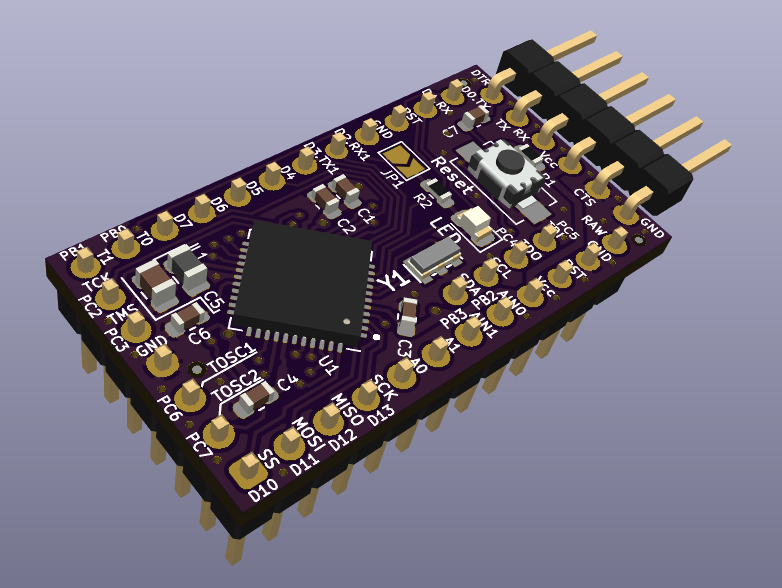
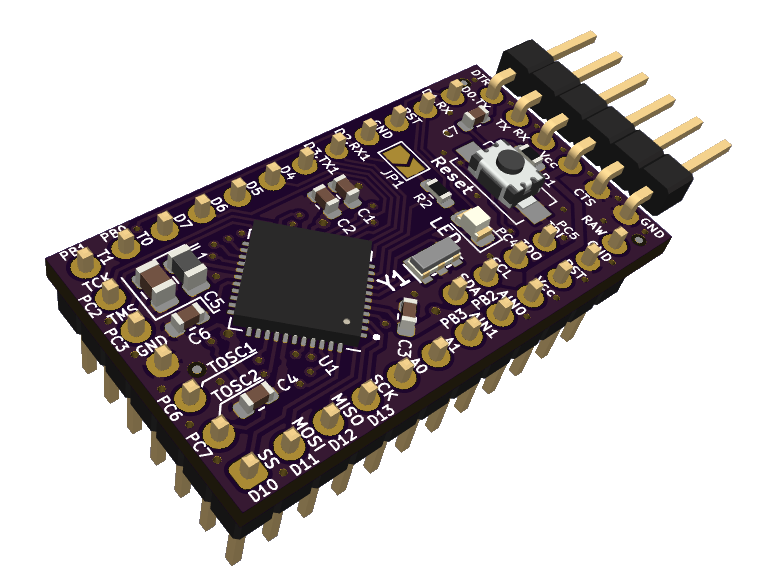
documentation updated

diff --git a/README.md b/README.md
@@ -1,0 +1,148 @@
+# **Arduino Pro Mini XL**
+
+- [**Arduino Pro Mini XL**](#arduino-pro-mini-xl)
+  - [**Overview**](#overview)
+    - [**Features**](#features)
+  - [**Schematic diagram**](#schematic-diagram)
+  - [**Module visualisation**](#module-visualisation)
+  - [**Assembly**](#assembly)
+  - [**Production files**](#production-files)
+  - [**Software Compatibility**](#software-compatibility)
+    - [**Installing MightyCore**](#installing-mightycore)
+  - [**Getting Started**](#getting-started)
+    - [**Burning the Bootloader**](#burning-the-bootloader)
+  - [**Troubleshooting**](#troubleshooting)
+  - [**Physical Specifications**](#physical-specifications)
+  - [**Reporting bugs**](#reporting-bugs)
+  - [**Acknowledgments**](#acknowledgments)
+  - [**License**](#license)
+  - [**Support**](#support)
+
+---
+
+## **Overview**
+The **Arduino Pro Mini XL** is a compact microcontroller board based on the **ATmega1284P**, designed to extend the capabilities of the standard Arduino Pro Mini while retaining its familiar form factor. With increased memory, additional I/O pins, and enhanced features, this board is well-suited for embedded applications requiring greater processing power and connectivity than the ATmega328P-based Arduino Pro Mini can provide. It integrates seamlessly with the Arduino ecosystem, making it accessible to hobbyists, engineers, and developers alike.
+
+### **Features**
+* **Microcontroller**: ATmega1284P
+* **Flash Memory**: 128KB
+* **SRAM**: 16KB
+* **EEPROM**: 4KB
+* **Digital I/O Pins**: 22
+* **Analog Input Pins**: 2
+* **Analog Comparator**: 1
+* **PWM Channels**: 8
+* **UARTs**: 2
+* **SPI**: 1
+* **I2C**: 1
+* **Operating Voltage**: 5V
+* **Clock Speed**: 20/16/8MHz
+* **Form Factor**: Compatible with Arduino Pro Mini
+
+---
+
+## **Schematic diagram**
+<p align="center"><img src="./docs/schematic.png" alt="wiring diagram" width="80%"/></p>
+
+
+## **Module visualisation**
+(click on the image to see the 3D model)
+<p align="center"><a href="https://3dviewer.net/#model=https://github.com/michpro/Arduino_Pro_Mini_XL/blob/master/docs/Arduino_Pro_Mini_XL.wrl"><img src="./docs/Arduino_Pro_Mini_XL.png" alt="Arduino Pro Mini XL" width="50%"/></a></p>
+
+## **Assembly**
+[Interactive BOM and placement](https://michpro.github.io/Arduino_Pro_Mini_XL/ibom.html)
+
+## **Production files**
+Production files can be found [**here**](./production/).
+
+---
+
+## **Software Compatibility**
+
+The Arduino Pro Mini XL is supported by the Arduino IDE through the [**MightyCore**](https://github.com/MCUdude/MightyCore) board package, which provides board definitions for the ATmega1284P.
+
+### **Installing MightyCore**
+
+To configure the Arduino IDE:
+
+1. Open the Arduino IDE.
+2. Navigate to `File` > `Preferences`.
+3. Add the following URL to the `Additional Boards Manager URLs` field:  
+   ```
+   https://mcudude.github.io/MightyCore/package_MCUdude_MightyCore_index.json
+   ```
+4. Click `OK`.
+5. Go to `Tools` > `Board` > `Boards Manager`.
+6. Search for "MightyCore" and install the package.
+
+After installation, select **"ATmega1284P"** under `Tools` > `Board`, and configure the variant and clock settings as needed.
+
+## **Getting Started**
+
+1. **Connect the Board**: Attach an FTDI-compatible cable or adapter to the 6-pin programming header.
+2. **Configure the IDE**: Select the ATmega1284P board and the appropriate serial port in the Arduino IDE.
+3. **Upload a Sketch**: Use a simple sketch, such as "Blink," to test functionality.
+   ```cpp
+   void setup()
+   {
+      pinMode(PIN_PC6, OUTPUT); // Onboard LED 
+                                // Don't forget to close JP1.
+   }
+
+   void loop()
+   {
+      digitalWrite(PIN_PC6, HIGH);
+      delay(1000);
+      digitalWrite(PIN_PC6, LOW);
+      delay(1000);
+   }
+   ```
+4. **Verify Operation**: Confirm that the onboard LED blinks, indicating successful setup. **Don't forget to close JP1.**
+
+### **Burning the Bootloader**
+
+To burn the bootloader using an ISP programmer:
+
+1. Connect the ISP programmer to the board’s pins.
+2. In the Arduino IDE, select the ATmega1284P board and your programmer.
+3. Choose `Tools` > `Burn Bootloader`.
+
+Consult the MightyCore documentation for correct fuse settings.
+
+## **Troubleshooting**
+
+- **Upload Failures**: Verify board and port settings; check FTDI connections and drivers.
+- **Power Issues**: Ensure input voltage is 5V (VCC); inspect for shorts. *Board has no RAW input*
+- **Pin Mapping**: Confirm pin assignments, as they differ from the ATmega328P.
+
+## **Physical Specifications**
+
+- **Dimensions**: Comparable to the Arduino Pro Mini (18.5mm x 33mm).
+
+---
+
+## **Reporting bugs**
+
+[Create an issue on GitHub](https://github.com/michpro/Arduino_Pro_Mini_XL/issues)
+
+---
+
+## **Acknowledgments**
+
+Thanks to the Arduino community and the [**MightyCore**](https://github.com/MCUdude/MightyCore) developers for enabling support for the ATmega1284P.
+
+---
+
+## **License**
+Copyright © 2020-2025 Michal Protasowicki
+
+This project is released under CERN Open Hardware Licence Version 2 - Permissive.
+
+[![License: CERN-OHL-P-2.0](https://img.shields.io/badge/License-CERN--OHL--P--2.0-blue.svg)](./LICENSE)
+
+---
+
+## **Support**
+If You find my projects interesting and You wanted to support my work, You can give me a cup of coffee or a keg of beer :)
+
+[![PayPal Direct](https://badgen.net/badge/icon/Support%20me%20by%20PayPal?icon=kofi&label&scale=1.5&color=blue)](https://www.paypal.me/michpro)&nbsp;&nbsp;&nbsp;&nbsp;&nbsp;[![ko-fi](https://badgen.net/badge/icon/Support%20me%20on%20Ko-fi?icon=kofi&label&scale=1.5&color=red)](https://ko-fi.com/F1F24CEW1)&nbsp;&nbsp;&nbsp;&nbsp;&nbsp;[![Coinbase](https://badgen.net/badge/icon/Support%20me%20with%20cryptocurrencies?icon=kofi&label&scale=1.5&color=blue)](https://commerce.coinbase.com/checkout/ec299320-cbed-475d-976e-fdf37c1ac3d0)
